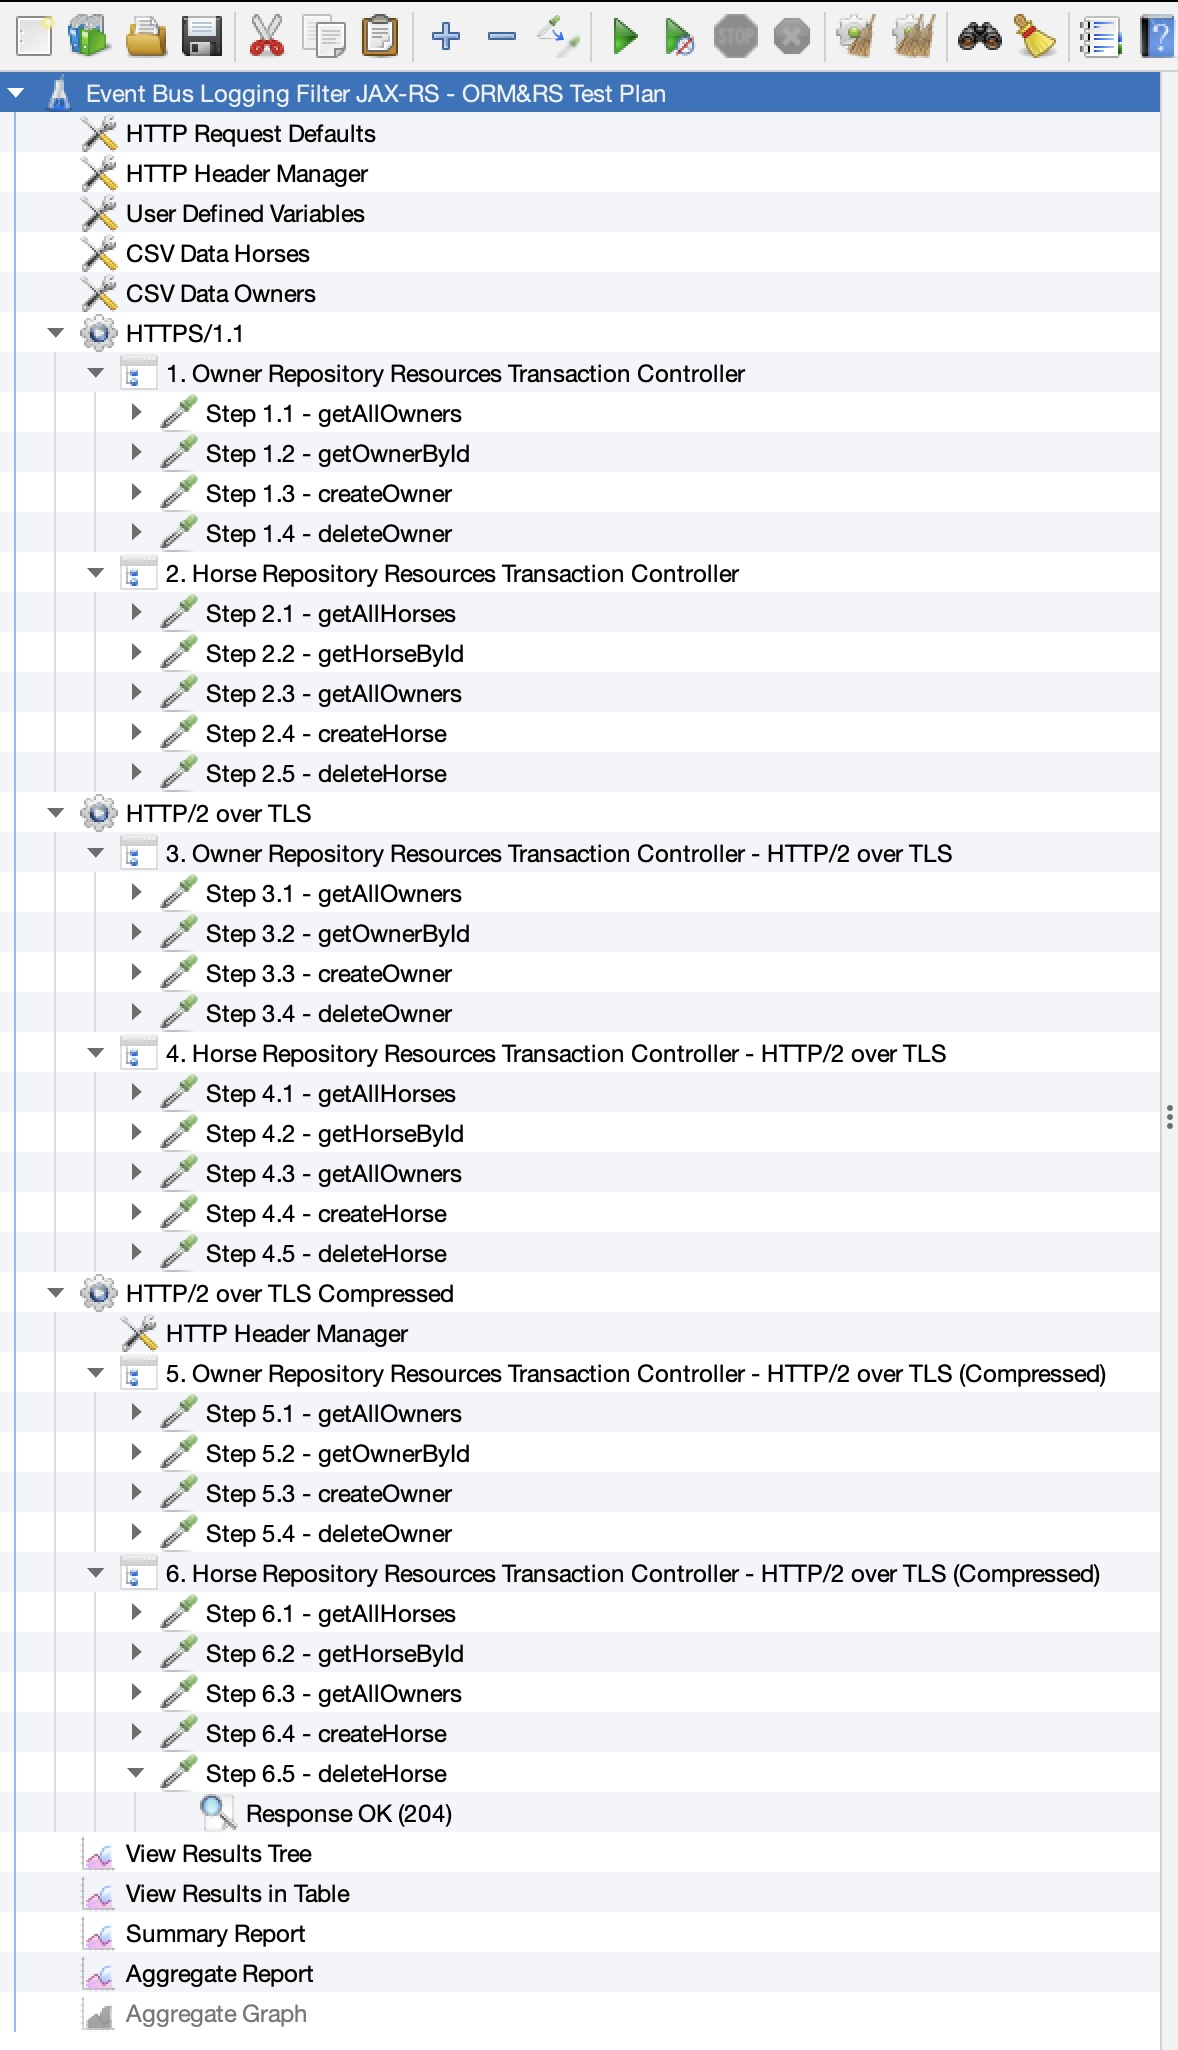
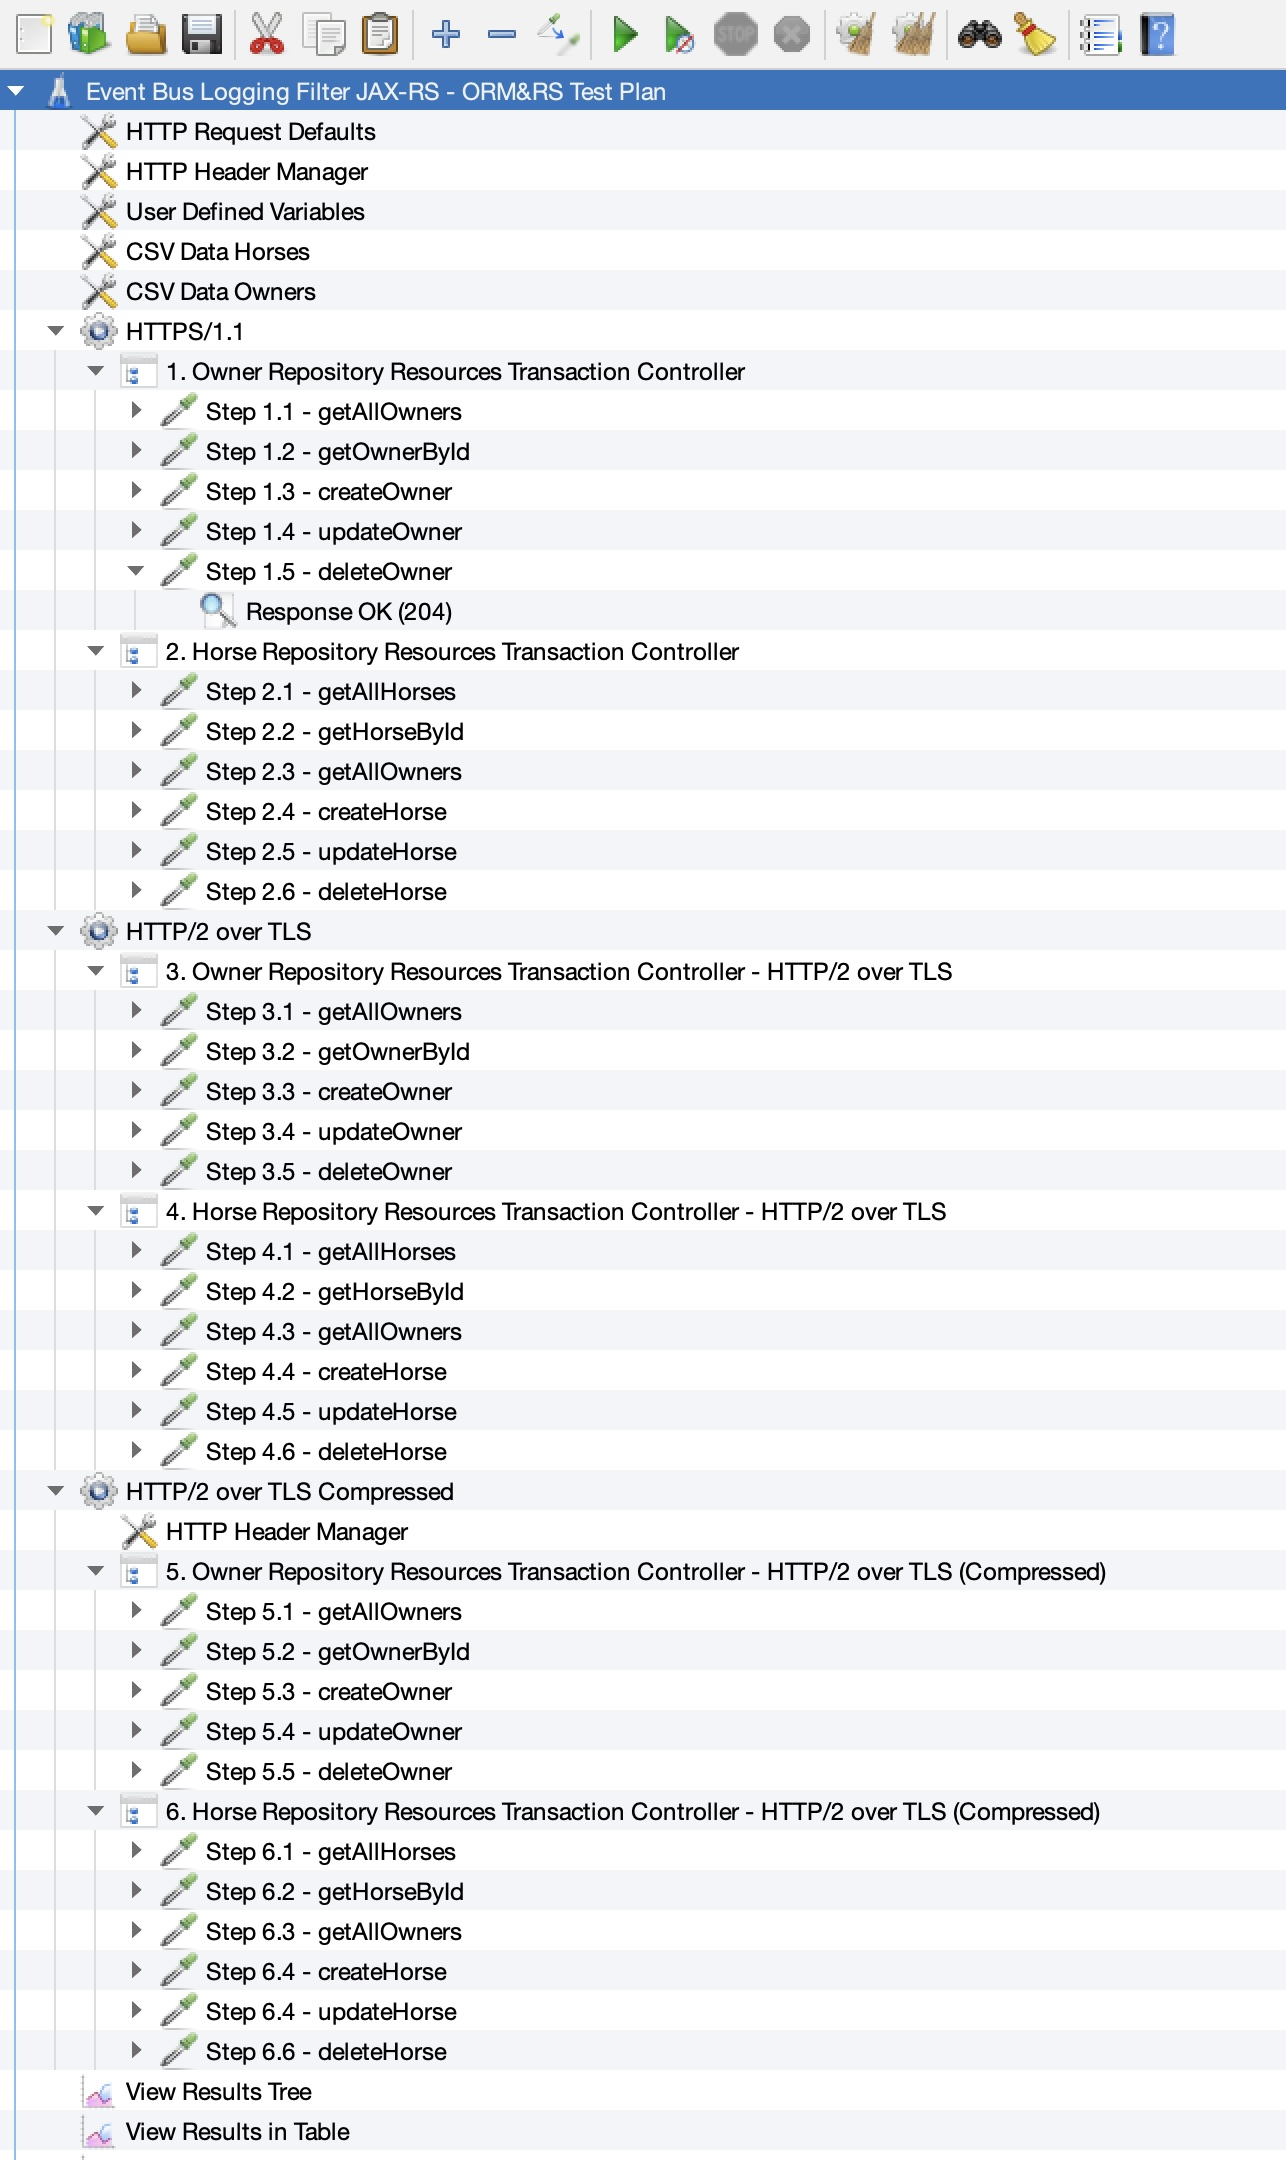
Aggiornamento doc/images e README.md

diff --git a/README.md b/README.md
@@ -274,7 +274,7 @@ Puoi eseguire l'applicazione in modalità sviluppo che abilita il live coding ut
 ```
 Console 6 - Esecuzione dell'applicazione in modalità sviluppo
 
-> **_NOTE:_**  Quarkus ora include una UI di sviluppo, disponibile solo in modalità sviluppo all'indirizzo http://localhost:8080/q/dev/.
+> **_NOTE:_** Quarkus ora include una UI di sviluppo, disponibile solo in modalità sviluppo all'indirizzo http://localhost:8080/q/dev/.
 
 ![Quarkus Dev UI](src/doc/resources/images/quarkus_dev_ui_home_page.jpg)
 
@@ -383,7 +383,7 @@ eseguito in locale, per cui abbiate cura di avere l'applicazione Quarkus in esec
 I Thread Group in questo caso sono stati configurati per simulare 100 utenti virtuali che inviano 300 richieste al
 servizio REST `api/rest/echo` esposto dall'applicazione Quarkus con un periodo di ramp-up di 0.5 secondi.
 
-> **_NOTA:_**  I dati mostrati a seguire fanno riferimento all'esecuzione del Test Plan sull'ambiente Developer 
+> **_NOTA:_** I dati mostrati a seguire fanno riferimento all'esecuzione del Test Plan sull'ambiente Developer 
 > Sandbox di Red Hat OpenShift, con attivi tre pod dell'applicazione Quarkus, un pod per il servizio MongoDB e un pod
 > per il servizio AMQP (Apache ActiveMQ Artemis).
 
@@ -425,6 +425,69 @@ potete vedere la struttura aprendolo con JMeter. A seguire è mostrata la strutt
 
 Figura 8 - Configurazione del Test Plan di JMeter (scenario 2 `src/test/jmeter/scenario_2.jmx`)
 
+I thread group sono stati configurati con lo stesso principio del primo scenario di Load Testing, di conseguenza sono
+stati creati per versione di protocollo HTTP (HTTPS/1.1, HTTP/2 over TLS e compressed); per ognuno di essi è stato
+creato un flusso di richieste verso i servizi JAX-RS dell'entità ORM `Owner` e `Horse` (introdotte dalla versione 
+[1.2.0](https://github.com/amusarra/eventbus-logging-filter-jaxrs/releases/tag/v1.2.0) del progetto).
+
+Per questo scenario, attraverso l'elemento di configurazione [HTTP Header Manager](https://jmeter.apache.org/usermanual/component_reference.html#HTTP_Header_Manager), sono stati configurati un set di header HTTP custom e che
+riguardano nello specifico delle informazioni su JMeter; questi sono:
+1. X-TestCaseId: un identificativo univoco del test case
+2. X-TestPlanName: il nome del test plan
+3. X-TestThreadGroupName: il nome del thread group
+4. X-TestThreadNumber: il numero del thread
+
+Queste informazioni possono essere utili per tracciare le richieste HTTP inviate da JMeter e per identificare il test.
+A seguire un esempio di una richiesta eseguita da JMeter e tracciata su MongoDB dove sono evidenti gli header HTTP custom.
+
+```bson
+{
+  "_id" : ObjectId("66425a820d65f7240e2ba113"),
+  "X-Correlation-ID" : "bc187f1f-9c6c-499b-9d13-0b87b31d2abb",
+  "remote-ip-address" : "127.0.0.1",
+  "headers" : {
+    "Accept" : [
+      "*/*"
+    ],
+    "X-TestThreadGroupName" : [
+      "HTTPS/1.1"
+    ],
+    "Connection" : [
+      "keep-alive"
+    ],
+    "User-Agent" : [
+      "Java/21.0.2"
+    ],
+    "X-TestPlanName" : [
+      "modified_scenario_2.jmx"
+    ],
+    "Host" : [
+      "127.0.0.1:8443"
+    ],
+    "X-TestCaseId" : [
+      "005044d0-9848-4f22-8e50-02fa395a5ede"
+    ],
+    "Content-Length" : [
+      "296"
+    ],
+    "Content-Type" : [
+      "application/json;charset=UTF-8"
+    ],
+    "X-TestThreadNumber" : [
+      "1"
+    ]
+  },
+  "body" : "{\r\n  \"name\": \"Crimson Comet-updated\",\r\n  \"sex\": \"F\",\r\n  \"coat\": \"chestnut\",\r\n  \"breed\": \"Appaloosa\",\r\n  \"dateOfBirth\": \"2004-01-19\",\r\n  \"registrationNumber\": \"0FOTDW12MI531U\",\r\n  \"microchipNumber\": \"C782CF2I1IN\",\r\n  \"passportNumber\": \"39K4CK1I3ZDU4\",\r\n  \"height\": 134,\r\n  \"owners\": [{\"id\": 3}]\r\n}",
+  "uri-info" : "https://127.0.0.1:8443/api/rest/repository/horse/v1/6",
+  "local-date-time-in" : "2024-05-13T20:22:58.622629",
+  "method" : "PUT",
+  "media-type" : "application/json",
+  "acceptable-language" : "[]",
+  "acceptable-media-types" : "[*/*]"
+}
+```
+Log 3 - Esempio di richiesta HTTP tracciata su MongoDB
+
 È possibile eseguire questo scenario sempre con Taurus utilizzando comando `bzt` come mostrato in precedenza. A seguire
 è riportato il comando per eseguire lo scenario di Load Testing con Taurus.
 
@@ -445,8 +508,6 @@ Console 12 - Esecuzione dello scenario di Load Testing con Taurus
 Dalla versione [1.2.4](https://github.com/amusarra/eventbus-logging-filter-jaxrs/releases/tag/v1.2.4) del progetto è possibile accedere alla Java Management Extensions (JMX) dell'applicazione Quarkus
 in esecuzione quando questa è avviata utilizzando il docker-compose. Questo è possibile grazie alla configurazione 
 mostrata a seguire e in particolare i parametri `JAVA_OPTS` che abilitano la JMX.
-
-```shell script
 
 ```yaml
   logging-filter:
